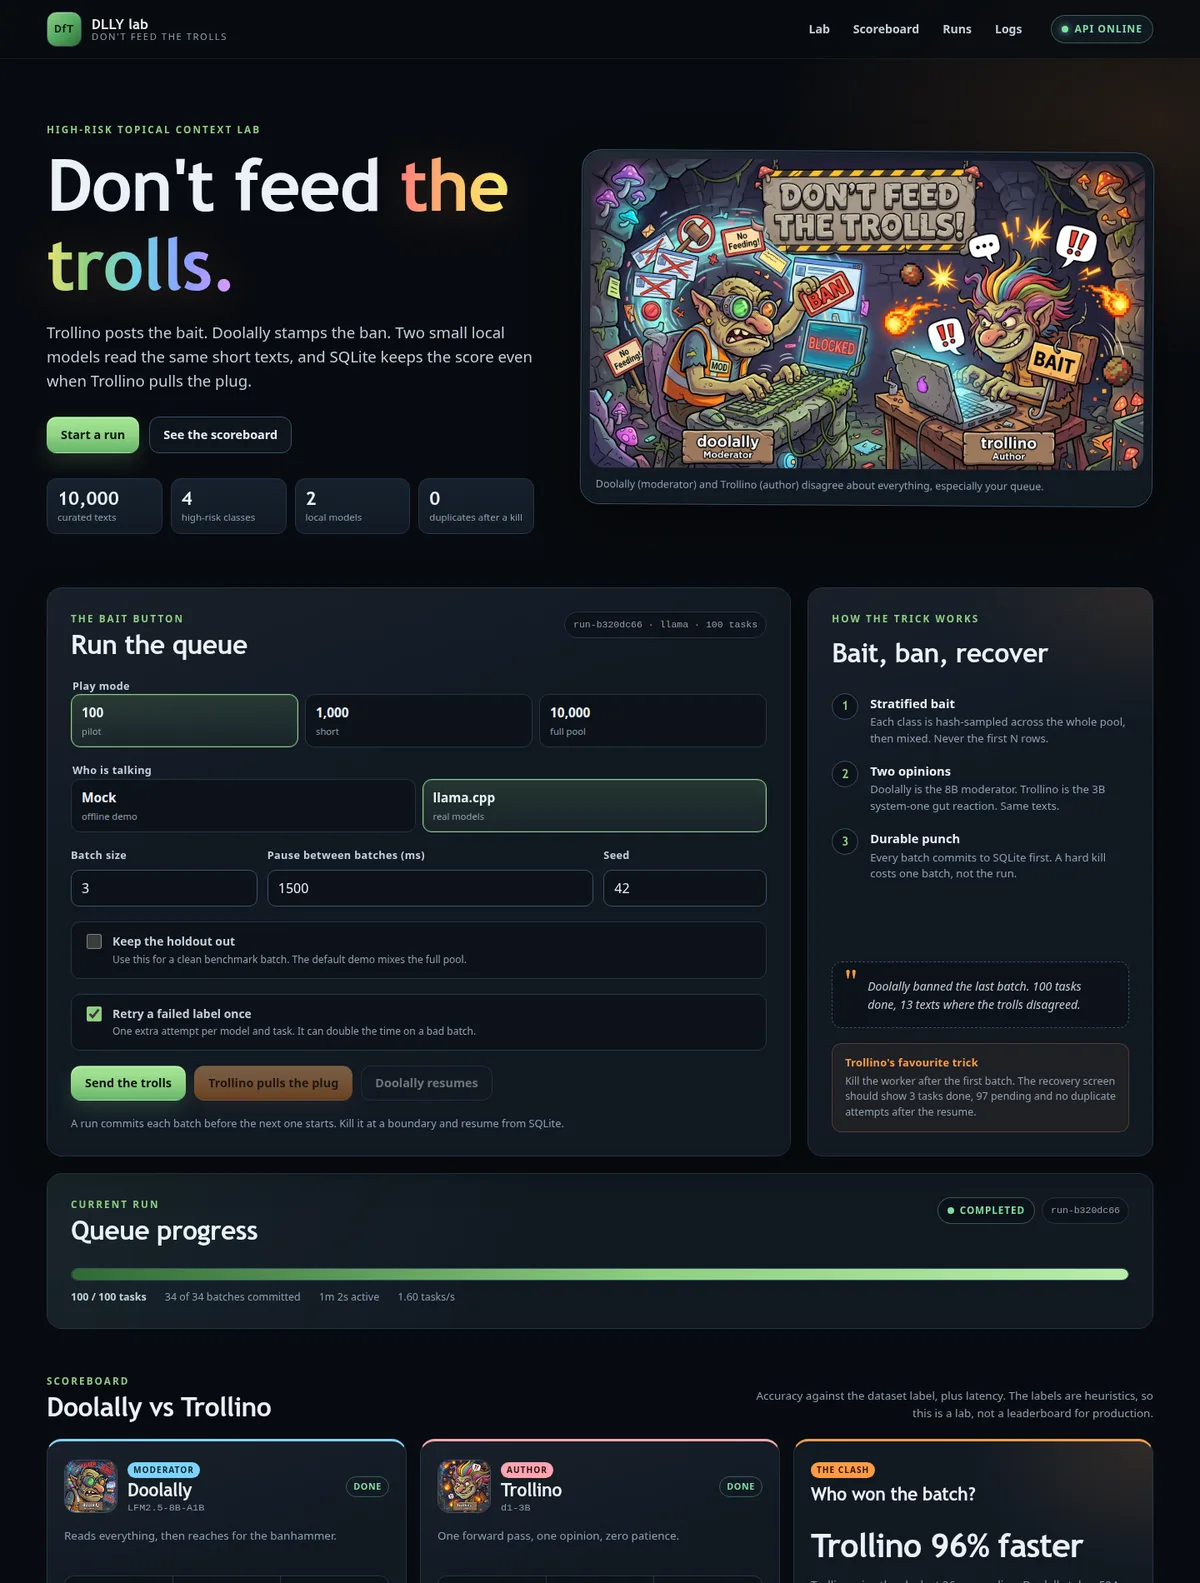
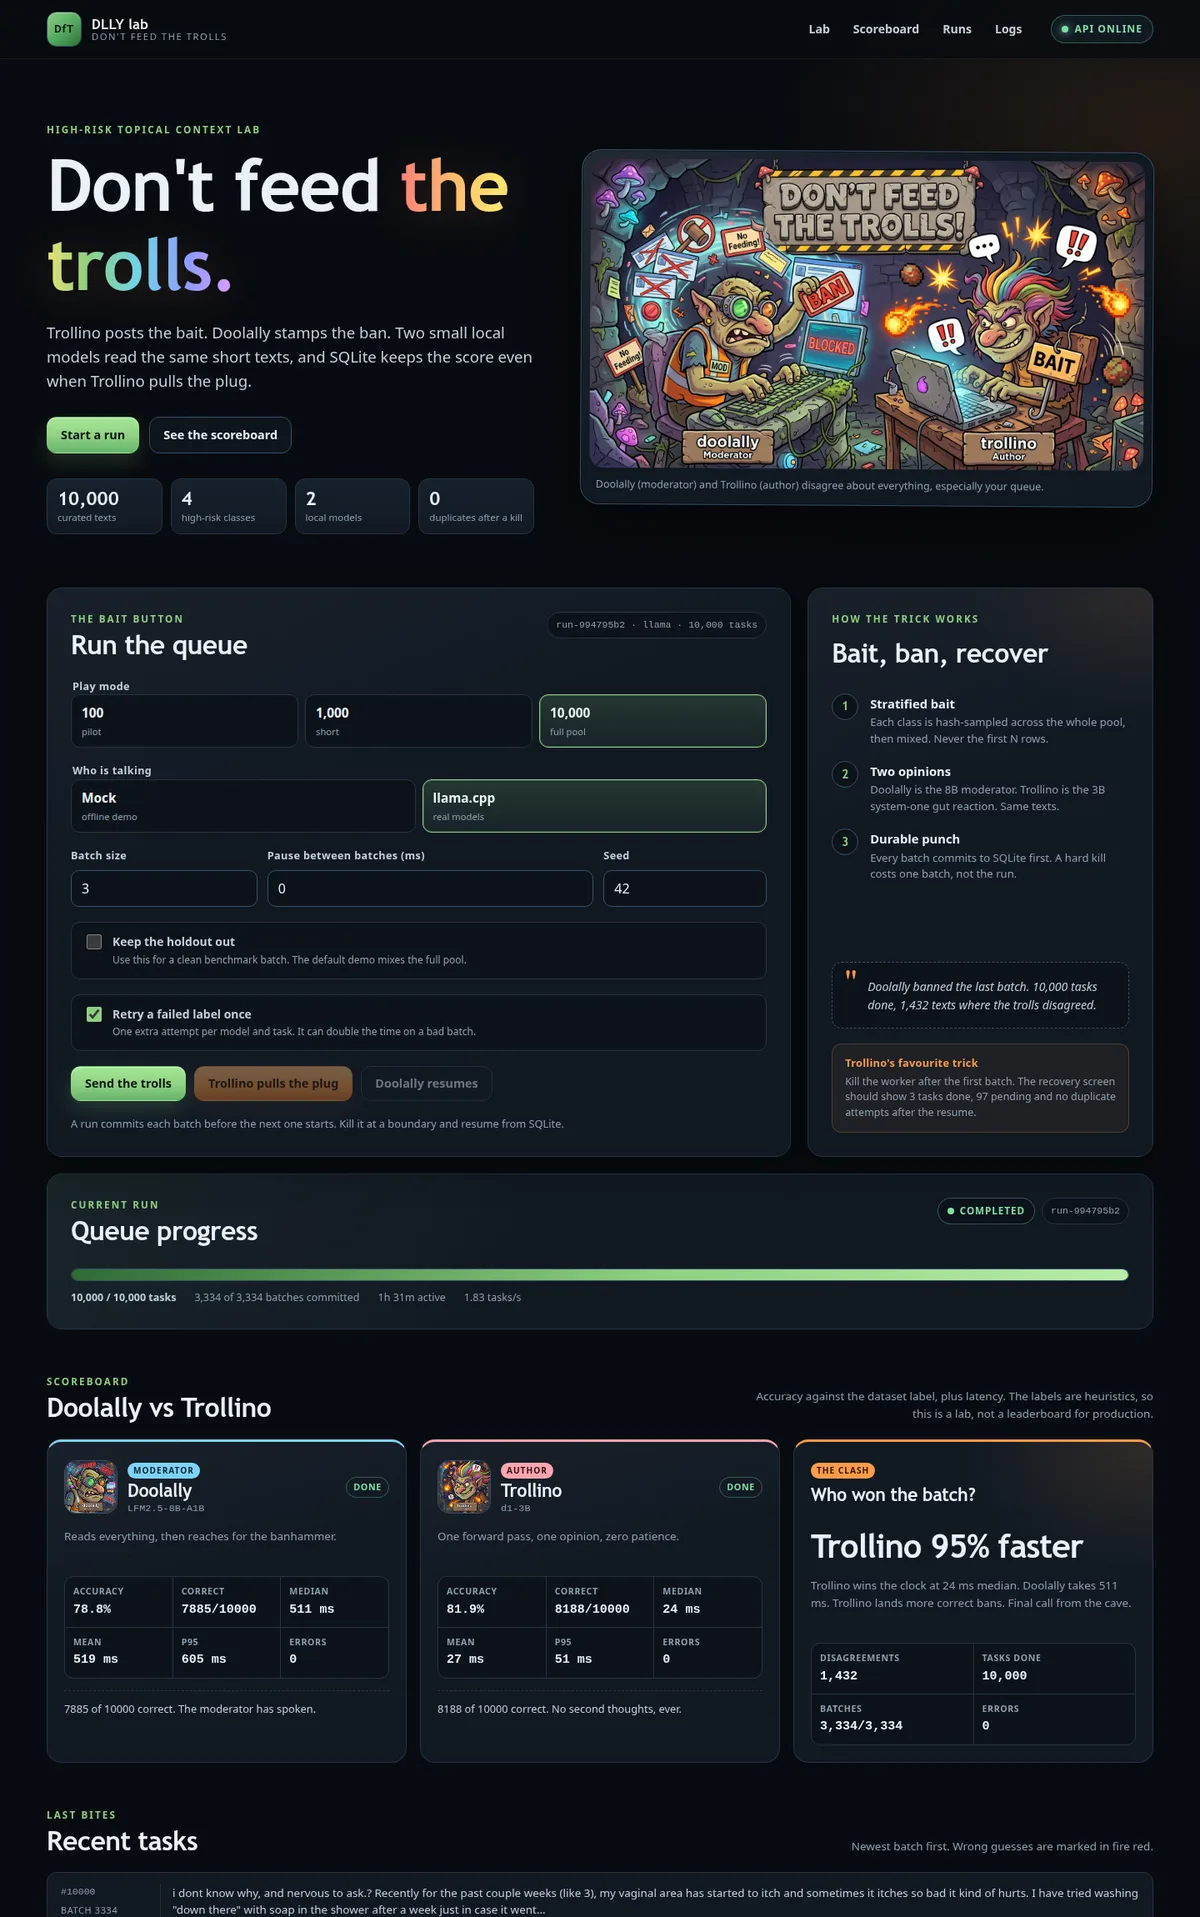
docs(site): show three-size results and 10k dashboard

diff --git a/docs/index.html b/docs/index.html
@@ -495,6 +495,11 @@
         font-size: 0.76rem;
       }
 
+      .subhead {
+        margin: 30px 0 12px;
+        font-size: 1.15rem;
+      }
+
       .callout strong {
         color: var(--fire);
       }
@@ -681,74 +686,142 @@
           <img
             src="assets/lab-dashboard.webp"
             width="1200"
-            height="1583"
+            height="1917"
             loading="lazy"
-            alt="The DLLY lab dashboard showing 100 of 100 tasks, Doolally at 80 percent accuracy and Trollino at 85 percent, with a 96 percent speed win for the small model."
+            alt="The DLLY lab dashboard showing 10,000 of 10,000 tasks, Doolally at 78.9 percent accuracy and Trollino at 81.9 percent, with a 95 percent speed win for the small model."
           />
           <figcaption>
-            A real 100-task run: Doolally 80% at 594 ms, Trollino 85% at 26 ms, 13 disagreements
-            and 34 committed batches.
+            A real 10,000-task run: Doolally 78.9% at 511 ms, Trollino 81.9% at 24 ms,
+            1,432 disagreements and 3,334 committed batches.
           </figcaption>
         </figure>
       </section>
 
       <section id="results">
         <div class="section-head">
-          <h2>Real 100-task result</h2>
-          <p>Mode 100, seed 42, same play sample, retry 1, zero provider errors.</p>
+          <h2>Three sample sizes</h2>
+          <p>100 clean, 1,000 clean and 10,000 full pool. Same seed, retry 1, zero provider errors.</p>
         </div>
         <div class="table-wrap">
           <table>
             <thead>
               <tr>
-                <th>Model</th>
-                <th>Role</th>
-                <th>Accuracy</th>
-                <th>Median latency</th>
-                <th>Speed</th>
-                <th>Notes</th>
+                <th>Sample</th>
+                <th>LFM accuracy</th>
+                <th>d1 accuracy</th>
+                <th>LFM median</th>
+                <th>d1 median</th>
+                <th>Disagreements</th>
+                <th>Active time</th>
               </tr>
             </thead>
             <tbody>
               <tr>
-                <td><strong>LFM2.5-8B-A1B</strong><small>Q4_K_M, 5.16 GB</small></td>
-                <td>Doolally, moderator</td>
-                <td class="good">80-85%</td>
-                <td>594 ms</td>
-                <td>1x</td>
-                <td>Reasoning capped at 128 tokens</td>
+                <td><strong>100 clean</strong><small>34 batches</small></td>
+                <td>81.0%</td>
+                <td class="good">85.0%</td>
+                <td>593 ms</td>
+                <td>27 ms</td>
+                <td>13</td>
+                <td>1.0 min</td>
               </tr>
               <tr>
-                <td><strong>d1-3B</strong><small>Q4_K_M, 1.67 GB</small></td>
-                <td>Trollino, author</td>
-                <td class="good">85%</td>
-                <td>26 ms</td>
-                <td class="good">22x faster</td>
-                <td>Decision model, one forward pass</td>
+                <td><strong>1,000 clean</strong><small>334 batches</small></td>
+                <td>77.8%</td>
+                <td class="good">81.8%</td>
+                <td>606 ms</td>
+                <td>27 ms</td>
+                <td>152</td>
+                <td>10.3 min</td>
               </tr>
               <tr>
-                <td><strong>LFM2.5-8B-A1B FT</strong><small>Q4KXL, 6.17 GB, optional</small></td>
-                <td>Speed variant</td>
-                <td class="bad">65%</td>
-                <td>110 ms</td>
-                <td>5x faster</td>
-                <td>Not better here, so not the default</td>
+                <td><strong>10,000 full</strong><small>3,334 batches</small></td>
+                <td>78.9%</td>
+                <td class="good">81.9%</td>
+                <td>511 ms</td>
+                <td>24 ms</td>
+                <td>1,432</td>
+                <td>91.2 min</td>
+              </tr>
+            </tbody>
+          </table>
+        </div>
+        <div class="table-wrap" style="margin-top: 14px">
+          <table>
+            <thead>
+              <tr>
+                <th>Class</th>
+                <th>100 LFM</th>
+                <th>100 d1</th>
+                <th>1,000 LFM</th>
+                <th>1,000 d1</th>
+                <th>10,000 LFM</th>
+                <th>10,000 d1</th>
+              </tr>
+            </thead>
+            <tbody>
+              <tr>
+                <td>Politics &amp; Elections</td>
+                <td>81.5%</td>
+                <td>86.2%</td>
+                <td>72.3%</td>
+                <td>78.2%</td>
+                <td>74.2%</td>
+                <td>79.2%</td>
+              </tr>
+              <tr>
+                <td>Medical &amp; Health</td>
+                <td>92.3%</td>
+                <td>94.1%</td>
+                <td>93.0%</td>
+                <td>92.7%</td>
+                <td>93.3%</td>
+                <td>92.8%</td>
+              </tr>
+              <tr>
+                <td>Legal &amp; Regulatory</td>
+                <td>73.1%</td>
+                <td>75.6%</td>
+                <td>65.1%</td>
+                <td>69.2%</td>
+                <td class="bad">66.2%</td>
+                <td class="warn">69.7%</td>
+              </tr>
+              <tr>
+                <td>Financial &amp; Crypto</td>
+                <td>76.2%</td>
+                <td>82.6%</td>
+                <td>81.1%</td>
+                <td>85.9%</td>
+                <td>82.0%</td>
+                <td>84.6%</td>
               </tr>
             </tbody>
           </table>
         </div>
         <p class="note">
-          Accuracy is measured against the dataset label. The labels are heuristic, so treat this as
-          a lab result, not a leaderboard. LFM scored 85% in a host run and 80% in the container run,
-          which is why the table shows a range. The optional fine-tune was tested because it follows
-          instructions more directly. It was faster, but 15 to 20 points less accurate on this
-          sample, so stock LFM stays the default.
+          F1 per class. The 100 and 1,000 runs exclude the holdout. The 10,000 run is the full pool
+          and includes it by design. There were 200, 2,000 and 20,000 attempts, with zero errors and
+          zero retries at every size.
+        </p>
+        <p class="note">
+          Legal is the hard class at every size. On the 10,000 run LFM predicted Legal 2,829 times
+          for 2,500 expected rows and pulled 559 Politics rows into it. d1 predicted Legal 2,266
+          times and split Legal and Politics more evenly. Medical is the easiest class for both.
         </p>
         <div class="callout">
-          <strong>The interesting part:</strong> the 3B decision model matched or beat the 8B chat
-          model on this narrow task, while using one fifth of the disk and answering in milliseconds.
-          Narrow classification does not always need a large generative model.
+          <strong>The interesting part:</strong> the 3B decision model beat the 8B chat model by 4.0
+          points at 100 and 1,000 tasks, and by 3.0 points at 10,000, while answering about 22x
+          faster. That is about 95% less latency. On this narrow task, more parameters did not buy
+          accuracy.
         </div>
+        <h3 class="subhead">100-task pilot and optional FT</h3>
+        <p class="note">
+          The clean 100 pilot is in the table above. The optional LFM2.5-8B-A1B FT was tested on the
+          100-task full-pool pilot at 65% and 110 ms. It was faster than stock LFM but less accurate,
+          so it is not the default. Accuracy is measured against the dataset label, and those labels
+          are heuristic. Treat this as a lab result, not a production benchmark.
+        </p>
       </section>
 
       <section id="recovery">
@@ -820,6 +893,25 @@
 docker compose -f docker/compose.yaml up -d --build
 npm run server
 # open http://127.0.0.1:3030</pre>
+          <h3 class="subhead">Three sample sizes</h3>
+          <p>
+            100 is the pilot, 1,000 is the clean benchmark and 10,000 is the full-pool stress run.
+            The 1,000 mode can exclude the holdout. The 10,000 mode includes it by definition.
+          </p>
+          <pre># clean 1,000-task benchmark
+curl -sS -X POST http://127.0.0.1:3030/api/runs \
+  -H 'content-type: application/json' \
+  -d '{"mode":1000,"provider":"llama","batchSize":3,"pauseMs":0,"retries":1,"excludeHoldout":true}'
+
+# full 10,000-task stress run
+curl -sS -X POST http://127.0.0.1:3030/api/runs \
+  -H 'content-type: application/json' \
+  -d '{"mode":10000,"provider":"llama","batchSize":3,"pauseMs":0,"retries":1,"excludeHoldout":false}'</pre>
+          <p class="note">
+            Or use the dashboard: choose the size, set pause 0 for a benchmark, and press Send the
+            trolls. The 1,000 run takes about 10 minutes on the RTX 4070. The 10,000 run takes about
+            about 91 minutes.
+          </p>
           <p class="note">
             The mock provider runs without Docker and without models, so the full queue, kill and
             resume flow can be demonstrated offline first. Phoenix at
